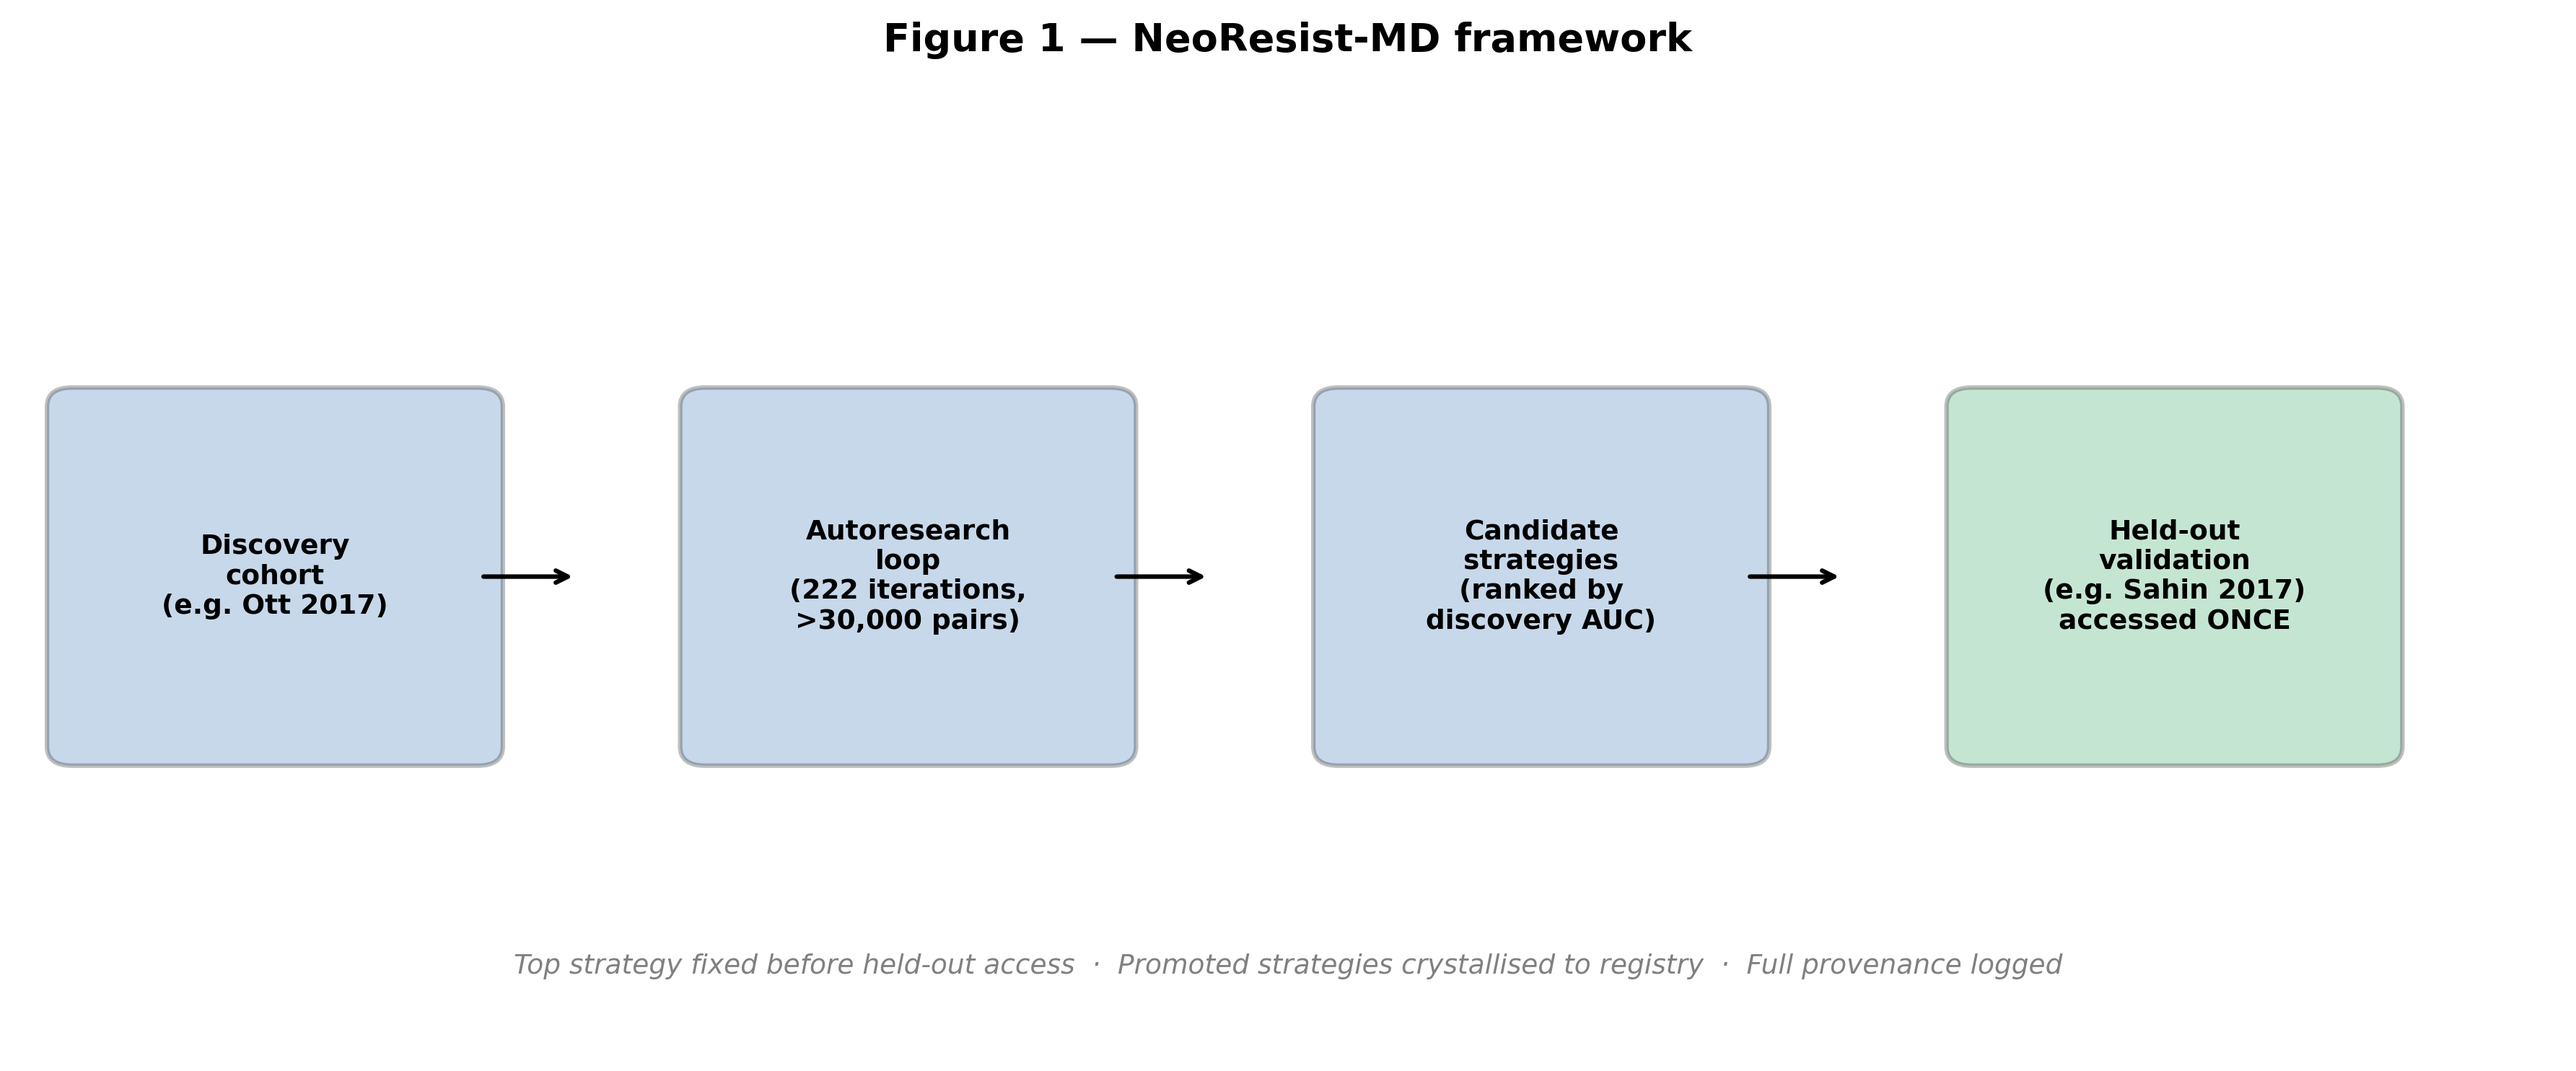
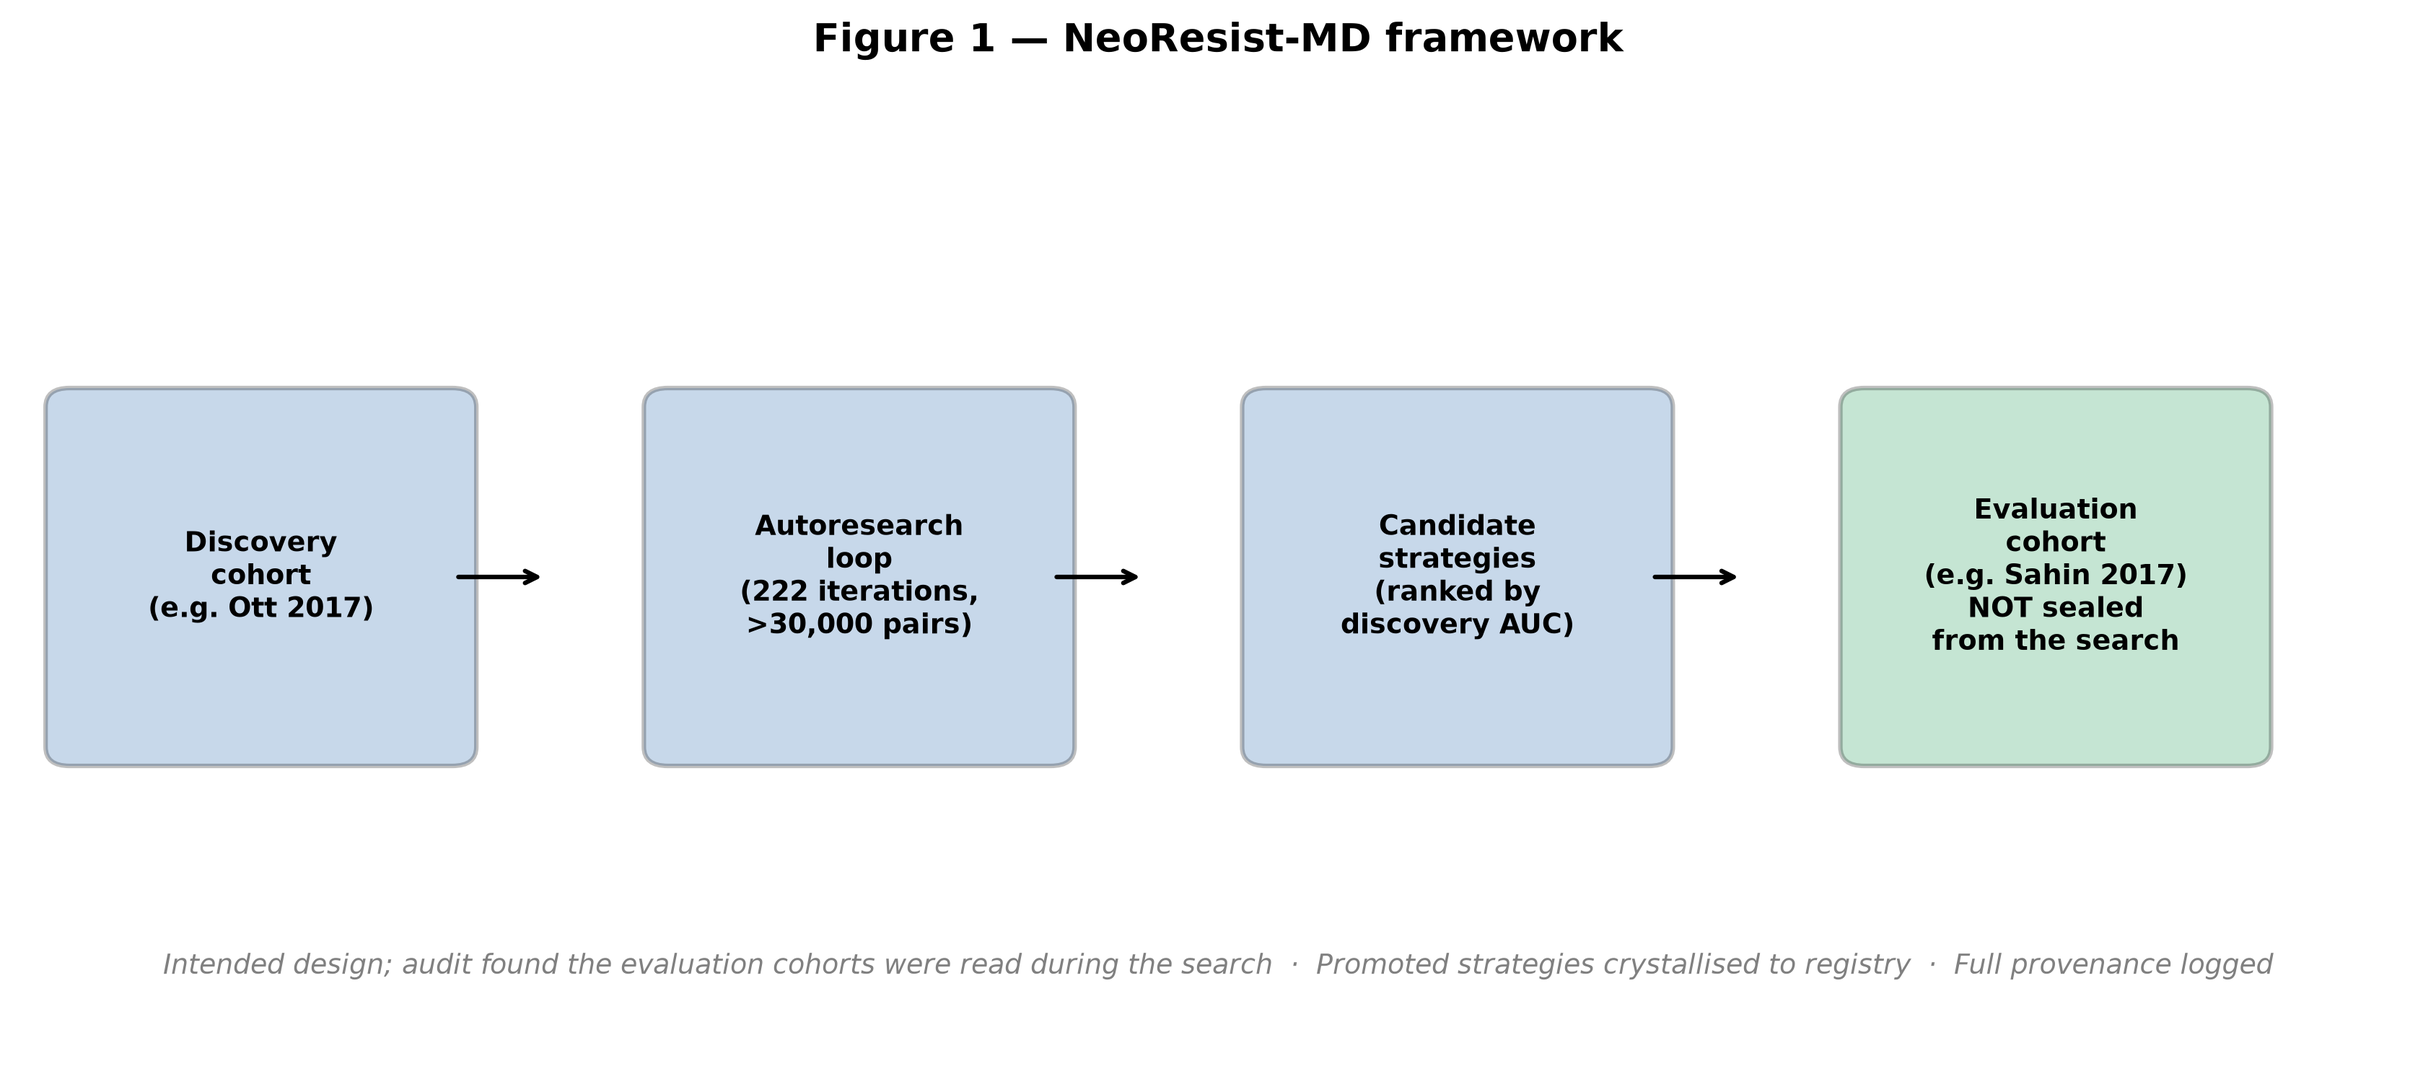
Retract the third single-access claim (Keskin 2019) and correct Figure 1
Three copies of the same error, corrected together:

- docs/paper_draft_v3.md: add a November 2026 correction to the GBM
  provisional evaluation paragraph. An audit of the strategy-engine
  artifacts found Keskin 2019 was read repeatedly from April to July
  2026, including being pooled with Hilf into the two-stage model's
  leave-one-patient-out training set (where it also influenced feature
  selection) two days before the "single" directional evaluation. A
  second strategy was scored on the cohort and reported in Table 6, and
  the dataset registry records held_out_blind: False. The Keskin
  transfer figure is exploratory, not a pre-specified directional test.

- evaluation/generate_figures.py: Figure 1's fourth box no longer reads
  "Held-out validation ... accessed ONCE", and its footer no longer
  claims the top strategy was fixed before held-out access.

- docs/paper_draft_v3.md: the Figure 1 legend now says panel A is the
  intended design, not the design as executed.

figures/fig1_framework.png regenerated so the image and the script agree.
Evidence: Vault/01 Ladder/Manager Work/2026-11-08 Keskin 2019 access audit.md

diff --git a/evaluation/generate_figures.py b/evaluation/generate_figures.py
@@ -171,7 +171,7 @@ def fig1_framework() -> None:
         (1.0, 2.5, "Discovery\ncohort\n(e.g. Ott 2017)", BLUE),
         (3.5, 2.5, "Autoresearch\nloop\n(222 iterations,\n>30,000 pairs)", BLUE),
         (6.0, 2.5, "Candidate\nstrategies\n(ranked by\ndiscovery AUC)", BLUE),
-        (8.5, 2.5, "Held-out\nvalidation\n(e.g. Sahin 2017)\naccessed ONCE", GREEN),
+        (8.5, 2.5, "Evaluation\ncohort\n(e.g. Sahin 2017)\nNOT sealed\nfrom the search", GREEN),
     ]
     for x, y, label, colour in boxes:
         rect = mpatches.FancyBboxPatch((x - 0.8, y - 0.9), 1.6, 1.8,
@@ -187,7 +187,7 @@ def fig1_framework() -> None:
 
     # Bottom note
     ax.text(5, 0.4,
-            "Top strategy fixed before held-out access  ·  Promoted strategies crystallised to registry  ·  Full provenance logged",
+            "Intended design; audit found the evaluation cohorts were read during the search  ·  Promoted strategies crystallised to registry  ·  Full provenance logged",
             ha="center", fontsize=9, style="italic", color="grey")
 
     plt.tight_layout()

diff --git a/docs/paper_draft_v3.md b/docs/paper_draft_v3.md
@@ -90,6 +90,8 @@ PRIME scores used as published [10]. Binding rank derived from RankEL_4.1. Hydro
 
 For provisional GBM evaluation, Hilf 2019 served as the discovery cohort. Keskin 2019 was pre-specified as the directional transfer check before the Hilf discovery run was initiated; it was accessed once, after the gbm_bind_seq_60_40 strategy was fixed from Hilf performance alone. No held-out validation cohort with sufficient structure for promotion was available; the Keskin result is therefore reported as provisional transfer evidence only.
 
+> **Correction (November 2026) — the access claim for Keskin 2019 does not hold.** The earlier text stated that Keskin 2019 was pre-specified as a directional transfer check and accessed once, after `gbm_bind_seq_60_40` was fixed on Hilf 2019 alone. An audit of the strategy-engine artifacts found that the cohort was read repeatedly from April to July 2026 — including being pooled with Hilf into the leave-one-patient-out training set of the two-stage model, where it also influenced feature selection — two days before the directional evaluation was run. A second strategy, `melanoma_all_signals`, was scored on the cohort and that result is reported in this paper (Table 6). The dataset registry records Keskin with `held_out_blind: False`. **The Keskin transfer figure is therefore exploratory, not a pre-specified directional test**, and Table 6's description of the strategy's home context as "Hilf/Keskin" is the accurate one.
+
 ### Clinical platform
 
 The NeoResist-MD platform implements an end-to-end workflow: mutation table upload → candidate generation → strategy scoring → tiered prioritisation output, with resume-safe case workflows, persistent storage with audit logging, and strategy dispatch from the per-cancer registry. Platform source code is included in the repository under `/platform`; a deployable release will be made available upon acceptance.
@@ -372,7 +374,7 @@ All cohort data are from published supplementary materials. Borch/IMPROVE: githu
 ## Figure Legends
 
 **Figure 1. NeoResist-MD framework.**
-(A) Discovery-validation design. Each cancer context has a designated discovery cohort and, where available, a held-out validation cohort accessed once at final evaluation. Promoted strategies are crystallised into the registry with provenance. (B) Autoresearch loop history showing exploration pressure and family weight adaptation across 222 rounds.
+(A) Discovery-evaluation design as originally intended. Each cancer context has a designated discovery cohort and, where available, a separate evaluation cohort. **Correction (November 2026): the evaluation cohorts were not in fact sealed from the search** (see the corrections in Methods), so panel A describes the intended design, not the design as executed, and the evaluation results are exploratory. Promoted strategies are crystallised into the registry with provenance. (B) Autoresearch loop history showing exploration pressure and family weight adaptation across 222 rounds.
 
 **Figure 2. Melanoma strategy discovery and ablation.**
 (A) Mean patient AUC on held-out Sahin 2017. Horizontal line: binding-only baseline (0.470). melanoma_all_signals: 0.575 (delta +0.105; *p* = 0.011). Error bars: 95% bootstrap CI. (B) Feature ablation. TCR contact volume is the dominant component (−0.086 on removal).
